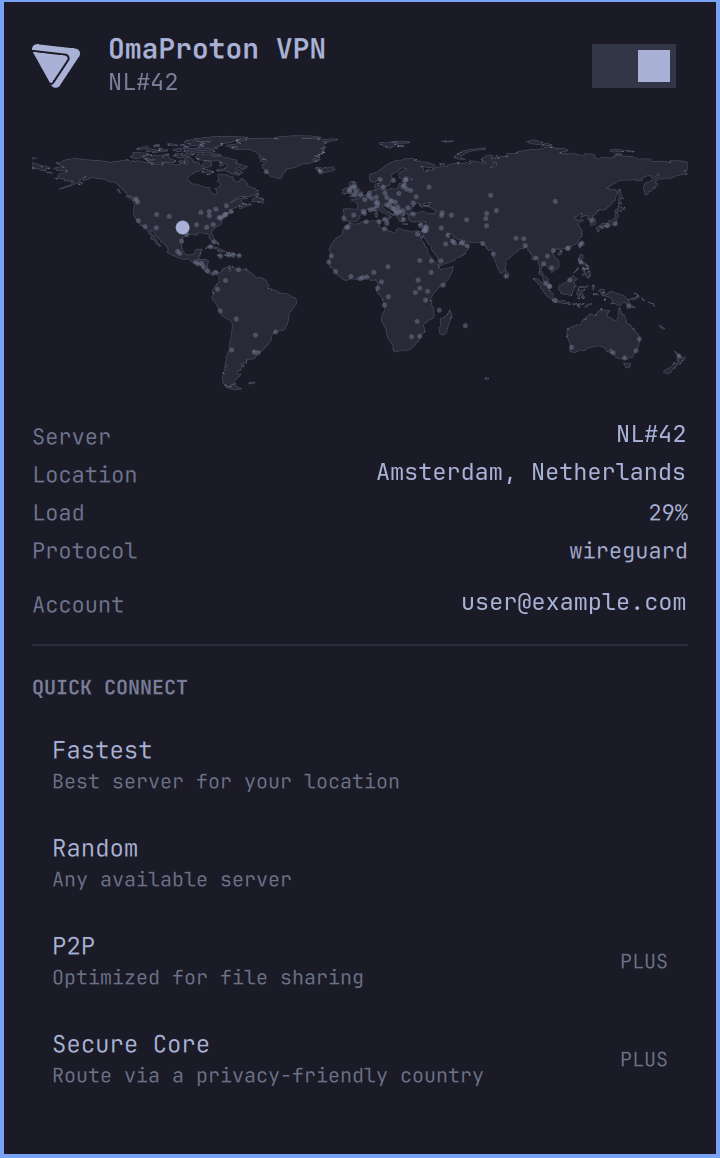
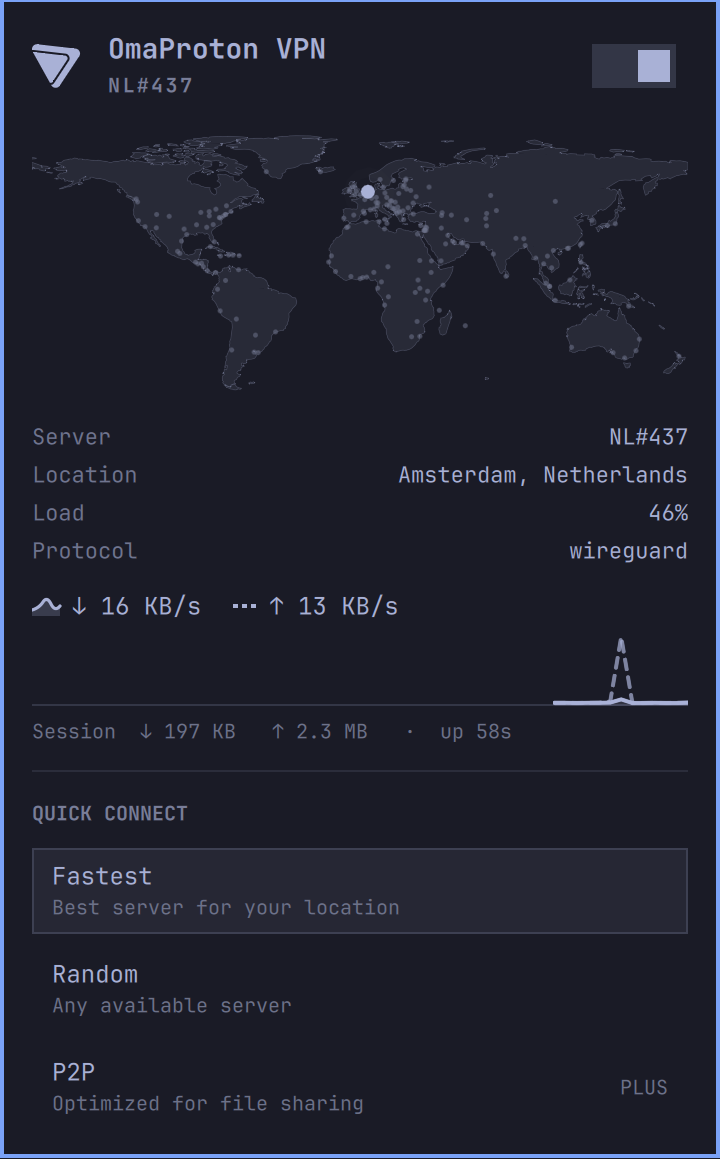
README screenshots for the new UI; view-only IPC for tab, drill, highlight, scroll
Fresh captures of the default view (map, details, live traffic), the
Protection tab with Account and Sign out, and a map-clicked city ringed in
the drilled list. The IPC additions change only what the panel shows —
never the tunnel — and exist so the panel can be driven for screenshots
and tests without synthesising input.

diff --git a/Panel.qml b/Panel.qml
@@ -398,6 +398,27 @@ Panel {
       return "ok"
     }
     function status(): string { return vpn.displayStatus + (vpn.displayServer !== "" ? " — " + vpn.displayServer : "") }
+    // View-only controls: they change what the panel shows, never the tunnel.
+    function tab(key: string): string { root.setTab(String(key)); return root.tab }
+    function drill(code: string): string {
+      var c = String(code || "").toUpperCase()
+      if (c === "") { root.drillOut(); return "ok" }
+      root.drillInto({ code: c, name: vpn.countryName(c) }); return "ok"
+    }
+    // "tabs" scrolls the tab strip to the top; a number is an absolute contentY.
+    function scroll(to: string): string {
+      if (!panelFlick) return "no panel"
+      var y = String(to) === "tabs" ? tabRow.y : parseFloat(to)
+      if (!isFinite(y)) return "bad value"
+      root.anchorPending = false
+      panelFlick.contentY = Math.max(0, Math.min(root.maxScroll(), y))
+      return String(Math.round(panelFlick.contentY))
+    }
+    function highlight(code: string, city: string): string {
+      root.drillInto({ code: String(code).toUpperCase(), name: vpn.countryName(code) })
+      root.highlight = { code: String(code).toUpperCase(), city: String(city) }
+      return "ok"
+    }
     // Deliberately omits the account email: anything running as this user can
     // call IPC, and the panel is the only place it should be readable.
     function debug(): string {

diff --git a/README.md b/README.md
@@ -36,7 +36,7 @@ It drives the official `protonvpn` CLI. No API keys, no tokens, and no
 credentials are stored by this plugin — your password and 2FA code go straight
 into the CLI's own prompt, and Proton's client owns the session from there.
 
-<img src="docs/panel.png" width="360" alt="The OmaProton VPN panel: world map, connection details, quick connect">
+<img src="docs/panel.png" width="360" alt="The OmaProton VPN panel: world map, connection details, live traffic, quick connect">
 
 ## What you need
 
@@ -176,7 +176,7 @@ pick stays until you close the panel.
 
 ### Protection
 
-<img src="docs/quick-protection.png" width="360" alt="Quick connect rows with PLUS tags, and the Kill Switch and NetShield switches">
+<img src="docs/protection.png" width="360" alt="The Protection tab: Kill Switch and NetShield switches, account, and sign out">
 
 Two switches, saved to Proton's own settings:
 
@@ -207,9 +207,7 @@ Below that is the full country list. **Clicking a country doesn't connect** —
 it drills into that country's cities, so you can see where you'll land before
 you commit.
 
-<img src="docs/country-list.png" width="360" alt="The country list, each row opening that country's cities">
-
-<img src="docs/city-list.png" width="360" alt="Japan drilled open: Fastest in Japan, then Tokyo and Osaka with load and tags">
+<img src="docs/city-list.png" width="360" alt="Connections tab with Japan drilled open — Osaka, clicked on the map, is ringed">
 
 Inside a country:
 
@@ -243,6 +241,8 @@ connect is still in progress. The other rows come from the CLI and can lag a
 moment behind.
 
 ### Traffic
+
+<img src="docs/traffic.png" width="360" alt="Download and upload rates with the 60-second sparkline and session totals">
 
 While you're connected, under the details: download and upload rates, a
 60-second sparkline, and the session's totals and uptime. Download is the
